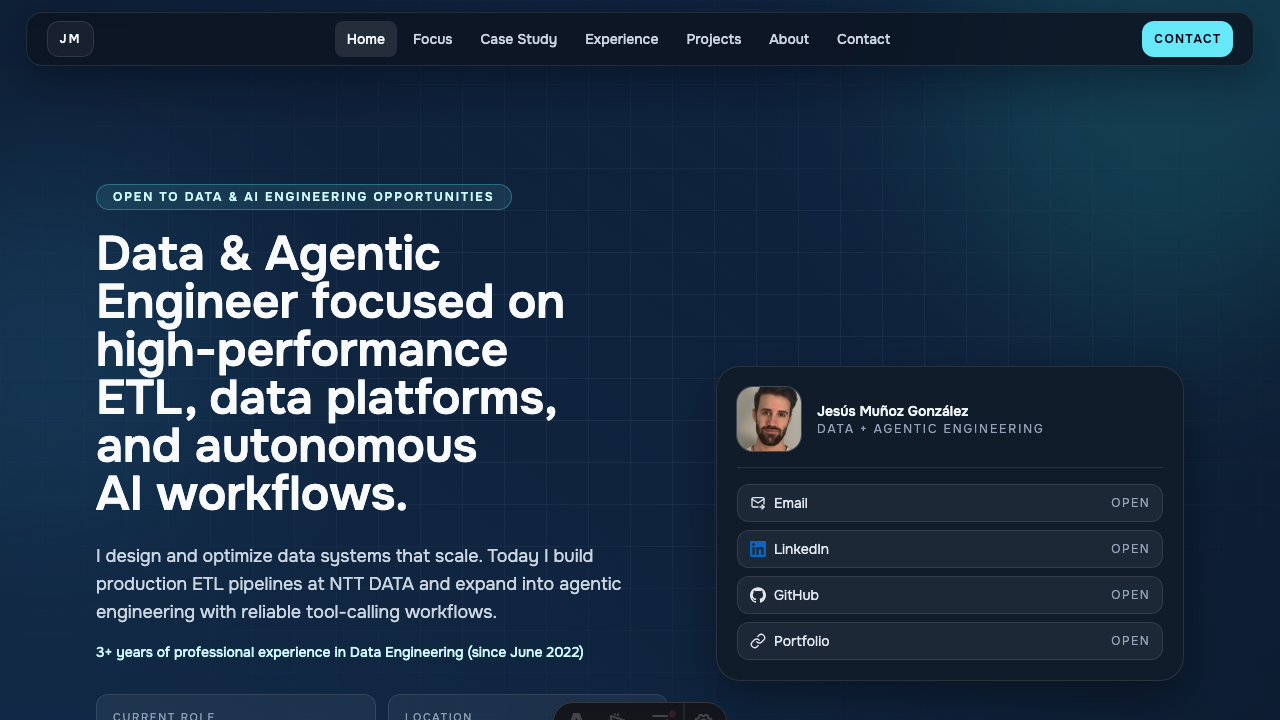
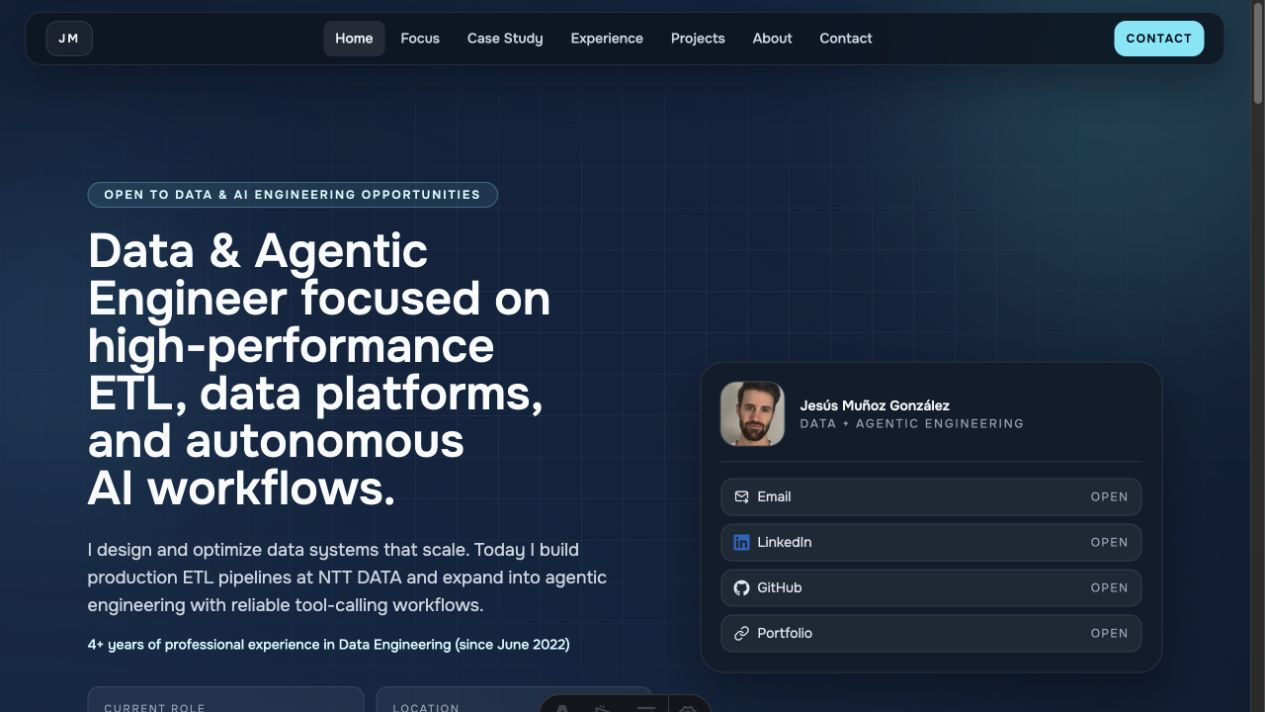
chore: refresh portfolio tenure and update date

diff --git a/src/data/portfolio.ts b/src/data/portfolio.ts
@@ -115,6 +115,7 @@ export interface AboutContent {
 export interface SiteContent {
   metaTitle: string;
   metaDescription: string;
+  lastUpdated: string;
   navItems: NavItem[];
   socialLinks: ContactLink[];
   hero: HeroContent;
@@ -129,6 +130,7 @@ export const SITE_CONTENT: SiteContent = {
   metaTitle: "Jesús Muñoz González | Data & Agentic Engineer",
   metaDescription:
     "Data Engineer at NTT DATA building scalable ETL platforms and agentic AI workflows focused on reliability, observability, and delivery.",
+  lastUpdated: "August 2026",
   navItems: [
     { label: "Home", href: "#home", section: SECTION_ID.HOME },
     { label: "Focus", href: "#focus", section: SECTION_ID.FOCUS },
@@ -175,7 +177,7 @@ export const SITE_CONTENT: SiteContent = {
     summary:
       "I design and optimize data systems that scale. Today I build production ETL pipelines at NTT DATA and expand into agentic engineering with reliable tool-calling workflows.",
     experienceLabel:
-      "3+ years of professional experience in Data Engineering (since June 2022)",
+      "4+ years of professional experience in Data Engineering (since June 2022)",
     location: "Based in Spain",
     currentRole: "Data Engineer at NTT DATA Europe & LATAM",
     ctaPrimary: {
